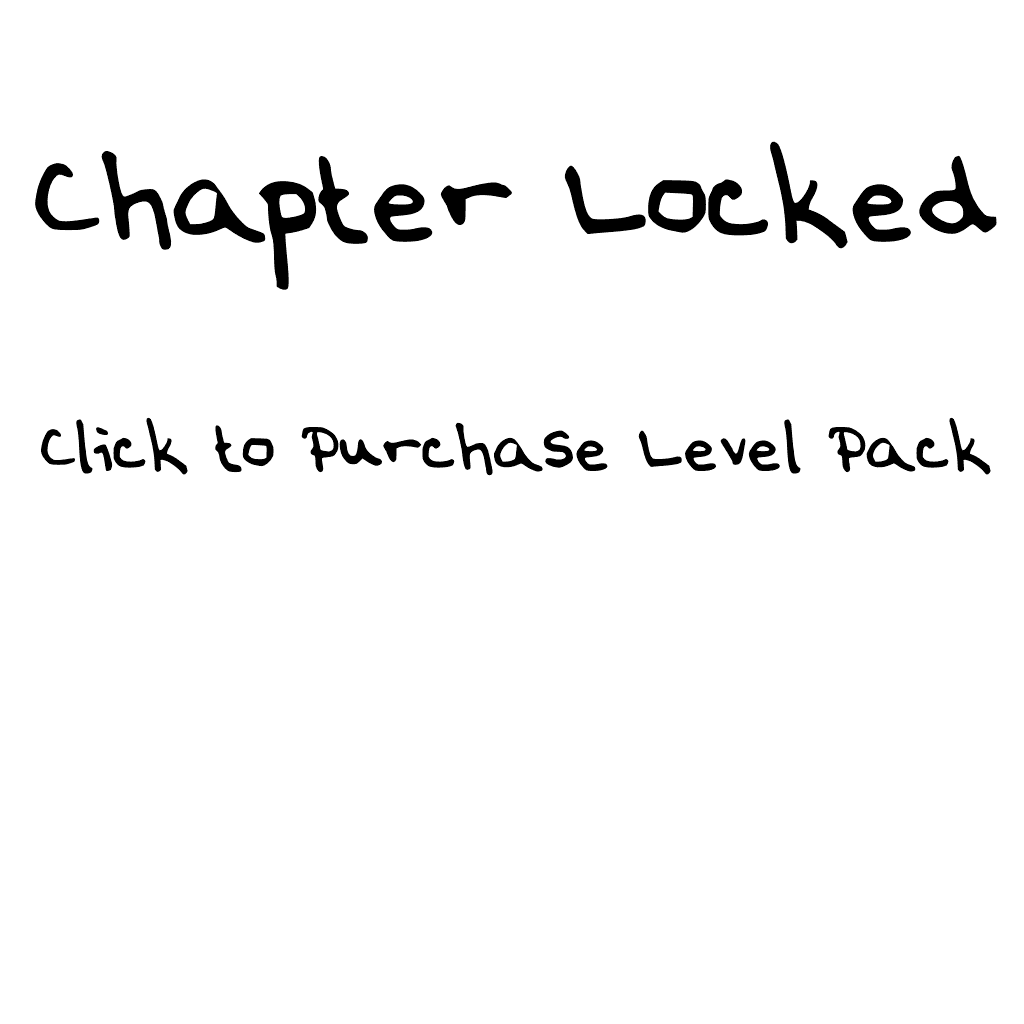
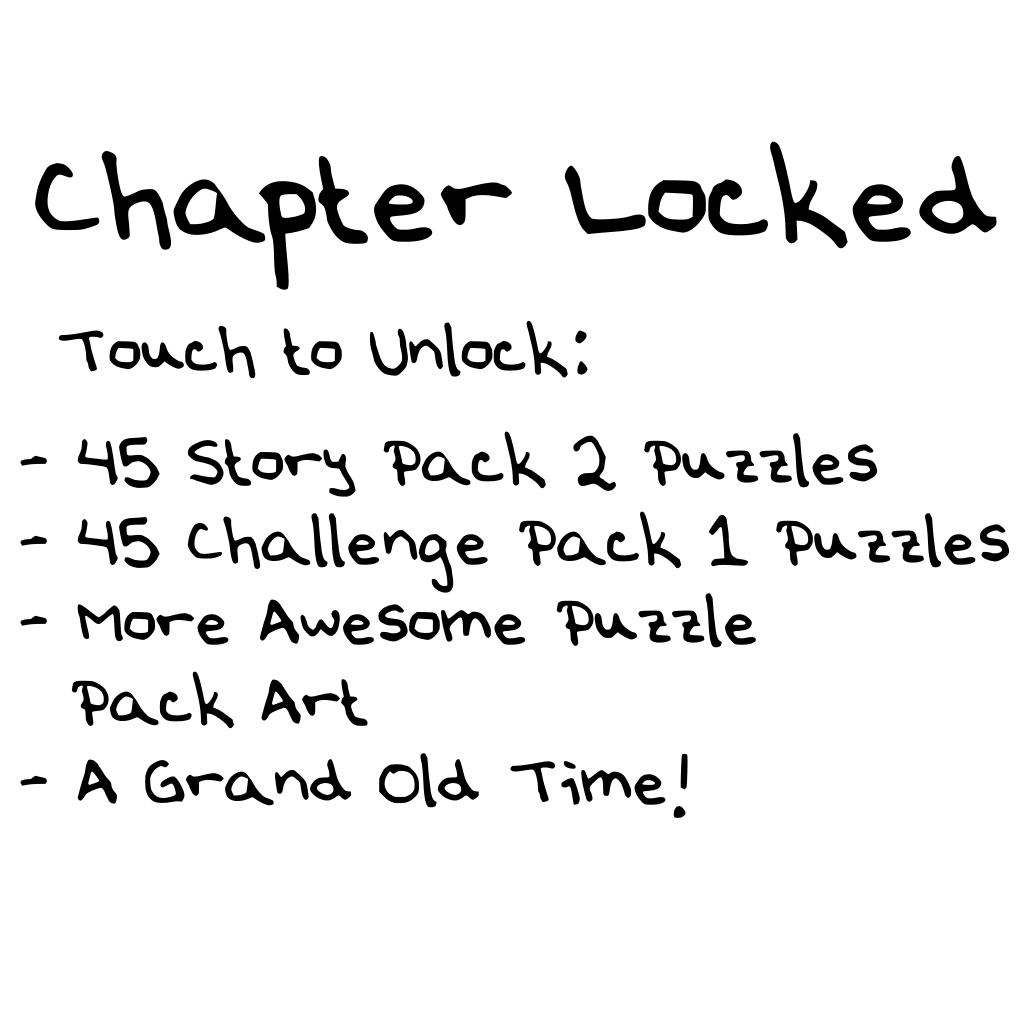
Fixed the fact that x counts as a move.

diff --git a/android/src/com/seventhharmonic/android/freebeeline/ViewActivity.java b/android/src/com/seventhharmonic/android/freebeeline/ViewActivity.java
@@ -158,7 +158,7 @@ public class ViewActivity extends Activity {
 		String result = q.getCompleted();
 		Log.d(TAG,"db result "+result+" "+p.getId());
 		//TODO: BOOGIE:Uncomment to unmark all puzzles as completed
-		//if(result.equals("true"))
+		if(result.equals("true"))
 		    p.setCompleted(true);	    
 		p.setMoves((int)q.getMovesUsed());
 	    }
@@ -212,7 +212,7 @@ public class ViewActivity extends Activity {
     }    
     
     public void onBackPressed() {
-	mModel.onBack();
+    	mModel.onBack();
     }	
 }    
 

diff --git a/android/src/com/seventhharmonic/android/freebeeline/Store.java b/android/src/com/seventhharmonic/android/freebeeline/Store.java
@@ -349,7 +349,7 @@ public class Store {
 	//Code for level pack purchase
 	public boolean hasLevelPack(LevelPack lp){
 		//TODO: BOOGIE. Uncomment to purchase level packs.
-		/*String id  = lp.getPurchaseId();
+		String id  = lp.getPurchaseId();
 		if(purchasables.contains(id)){
 			if(mInventory == null){
 				Log.d(TAG, "Found a null inventory");
@@ -365,7 +365,7 @@ public class Store {
 				return false;
 			}
 		}
-		Log.d(TAG, "Didn't contain id "+id);*/
+		Log.d(TAG, "Didn't contain id "+id);
 		return true;
 	}
 

diff --git a/android/src/com/seventhharmonic/android/freebeeline/LockedChapterWidget.java b/android/src/com/seventhharmonic/android/freebeeline/LockedChapterWidget.java
@@ -14,8 +14,8 @@ public class LockedChapterWidget extends WidgetLayout{
 	public LockedChapterWidget(Chapter ch){
 
 		this.ch  = ch;
-		
-		mLocked = new ImageWidget(0,0,.8f, .6f, "chapterLockedBanner");
+		//TODO: This needs to be in the xml.
+		mLocked = new ImageWidget(0,0,.8f, .8f, "chapterLockedBanner");
 		mLocked.setRelativeCenter(0,0);
 		mLocked.setBorder(true);
 		mLocked.setColor("white");

diff --git a/android/src/com/seventhharmonic/android/freebeeline/Board.java b/android/src/com/seventhharmonic/android/freebeeline/Board.java
@@ -626,7 +626,9 @@ class Board extends Graphic<BoardTile, State<BoardTile> > implements BeeBoardInt
 				if (at != -1) {
 					//Set the user input since we get values
 					tiles[at].setUserInput(val);
-					moves+=1;
+					if(val != 0){
+						moves+=1;
+					}
 					updateMoves();
 
 					if (toggleLines) {

diff --git a/android/src/com/seventhharmonic/android/freebeeline/MyGLRenderer.java b/android/src/com/seventhharmonic/android/freebeeline/MyGLRenderer.java
@@ -334,7 +334,7 @@ public class MyGLRenderer implements GLSurfaceView.Renderer {
 	}
 
 	private void drawModel() {
-			mFPSCounter.logFrame();		
+		//mFPSCounter.logFrame();		
 		mModel.draw(this);
 
 	}
